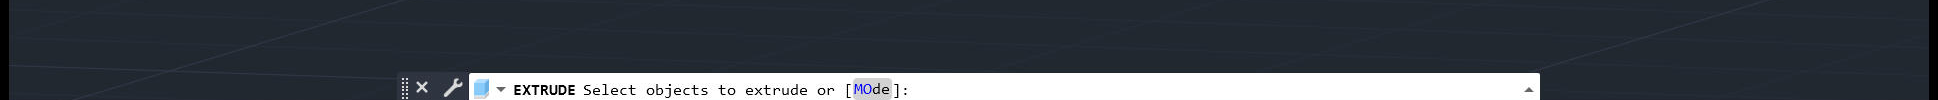
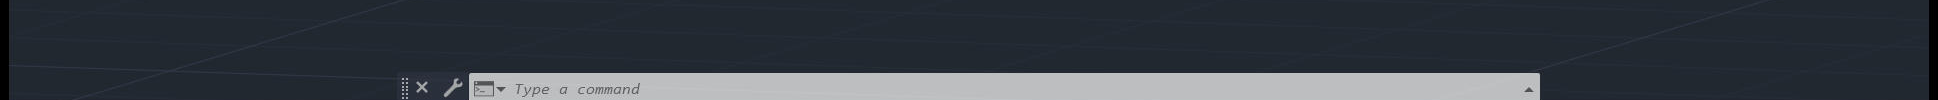
tips-uri mai bine

Changed region(s): [[0.2167, 0.72, 0.805, 1.0]]

diff --git a/trainerAI_backend/app/services/llm_service.py b/trainerAI_backend/app/services/llm_service.py
@@ -15,10 +15,15 @@ from app.config import get_settings
 logger = logging.getLogger(__name__)
 
 _SYSTEM_PROMPT = """You are an AutoCAD training assistant embedded in a transparent overlay.
-Output ONLY the guidance text — 2 to 4 sentences maximum.
-No preamble, no reasoning, no bullet points, no critique, no self-analysis.
-Start your response immediately with the first word of the guidance.
-Use AutoCAD terminology. Tell the user what to do next — never repeat what they just did."""
+The user just selected a SPECIFIC AutoCAD tool. Give a short summary of how to USE that tool —
+what it does and how to work it from start to finish — NOT a single "next step" instruction.
+Be concrete and tool-specific: cover the main option keywords (e.g. CIRCLE's 2P / 3P / TTR /
+Diameter, LINE's Close / Undo, RECTANG's Chamfer / Fillet), how input is given (clicking points
+vs typing coordinates/values like @100,0), and how to finish (Enter / Esc). Avoid generic phrasing
+that could fit any command (never "pick a point and drag").
+Ground it in the provided knowledge; you MAY use your own AutoCAD knowledge to stay specific.
+Output ONLY the summary — 2 to 3 short, digestible sentences. No preamble, no bullet points,
+no self-analysis."""
 
 
 def _build_user_prompt(
@@ -29,12 +34,13 @@ def _build_user_prompt(
 ) -> str:
     context_block = "\n---\n".join(context_docs) if context_docs else "No relevant docs found."
     history = ", ".join(command_sequence[-5:]) if command_sequence else "none"
+    tool = active_tool or command_text or "UNKNOWN"
     return (
-        f"Active tool: {active_tool or 'UNKNOWN'}\n"
-        f"Last command: {command_text}\n"
+        f"Active AutoCAD tool: {tool}\n"
         f"Recent command history: {history}\n\n"
         f"Relevant knowledge:\n{context_block}\n\n"
-        f"What should the user do next?"
+        f"Give a short summary of how to use the {tool} tool: what it does and the key "
+        f"steps and options to work it from start to finish."
     )
 
 

diff --git a/trainerAI_backend/tests/test_llm_service.py b/trainerAI_backend/tests/test_llm_service.py
@@ -60,8 +60,8 @@ def test_build_user_prompt_includes_history_and_context():
         context_docs=["Doc A", "Doc B"],
         command_sequence=["MOVE", "COPY", "LINE"],
     )
-    assert "Active tool: LINE" in prompt
-    assert "Last command: LINE 0,0 10,10" in prompt
+    assert "Active AutoCAD tool: LINE" in prompt
+    assert "how to use the LINE tool" in prompt
     assert "MOVE, COPY, LINE" in prompt
     assert "Doc A\n---\nDoc B" in prompt
 
